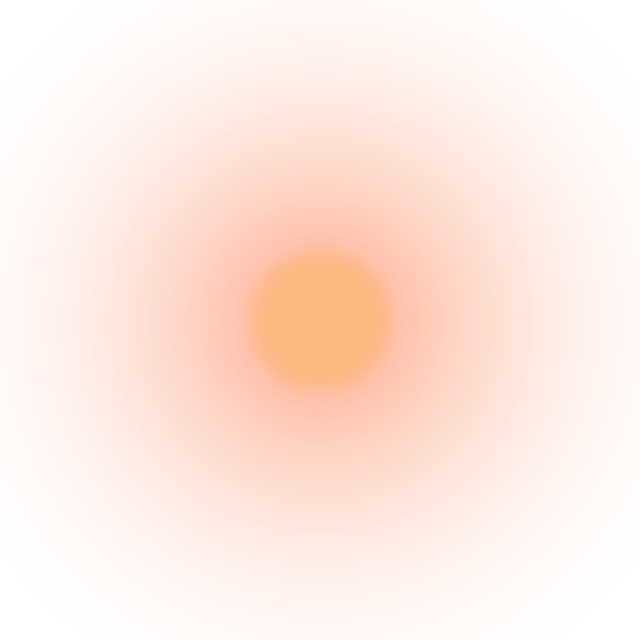
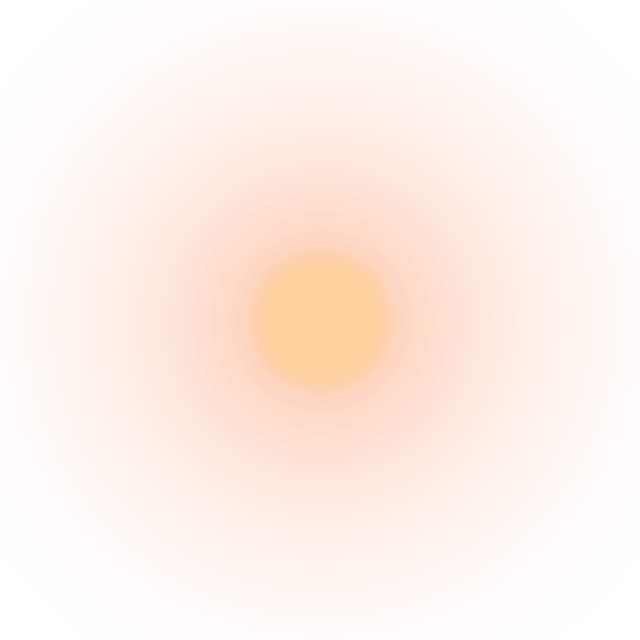
[FE] [FIX] 맑음 · 해 질 녘 하늘을 연어색에서 분홍 보라로
- skyTint.clear.dusk #F2A98C → #E6C6CF (너무 빨갛다는 의견)
- 낮은 해 그림(sun-low.png)도 덜 붉게 다시 만듦

Changed region(s): [[0.375, 0.375, 0.625, 0.625]]

diff --git a/mobile/src/theme/tokens.ts b/mobile/src/theme/tokens.ts
@@ -51,7 +51,7 @@ export const colors = {
 // 하늘 배경 맨 위 색 — 날씨 × 시간대. 아래로 갈수록 화면 바탕(bg)으로 풀림 (features/sky/sky.ts의 skyColorAt)
 // 글자 대비를 지키려고 전부 옅은 색. 값을 바꾸면 features/sky/__tests__/sky.test.ts가 대비를 다시 잼
 export const skyTint = {
-  clear: { dawn: '#F9D58A', morning: '#B5D6F3', day: '#9CC8F2', dusk: '#F2A98C', night: '#ACA7DC' },
+  clear: { dawn: '#F9D58A', morning: '#B5D6F3', day: '#9CC8F2', dusk: '#E6C6CF', night: '#ACA7DC' },
   cloudy: { dawn: '#CFC4BF', morning: '#CDCBC2', day: '#BFC6CB', dusk: '#C9BBBB', night: '#B4B4CC' },
   rain: { dawn: '#A9BACA', morning: '#A6BCCD', day: '#9FB7C9', dusk: '#A9B1C9', night: '#9FA6C6' },
   snow: { dawn: '#C5CFE6', morning: '#BCD5EC', day: '#B8D4EE', dusk: '#C0C6E2', night: '#B0B9DC' },

diff --git a/mobile/scripts/make-sky-assets.py b/mobile/scripts/make-sky-assets.py
@@ -168,7 +168,7 @@ files = {
     "cloud-gray-2.png": cloud(23, (232, 237, 243), (176, 190, 207)),
     "cloud-gray-3.png": cloud(42, (232, 237, 243), (176, 190, 207)),
     "sun-day.png": sun((255, 226, 130), (255, 205, 96)),
-    "sun-low.png": sun((255, 186, 130), (255, 138, 96)),
+    "sun-low.png": sun((255, 210, 160), (252, 176, 140)),
     "rays.png": rays((255, 232, 170)),
     "moon.png": moon((255, 251, 232)),
     "glow-moon.png": solid(360, (255, 250, 225), falloff(360, 2.4).point(lambda v: int(v * 0.6))),
